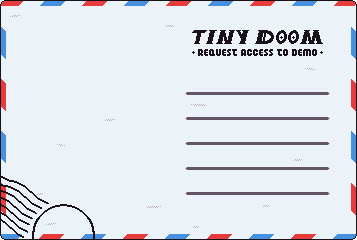
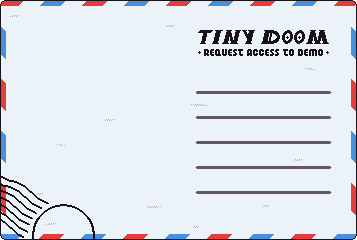
Update postcard layout and signup embed

diff --git a/src/lib/discord.ts b/src/lib/discord.ts
@@ -99,7 +99,7 @@ export async function postPlaytestSignupMessage(
 			body: JSON.stringify({
 				embeds: [
 					{
-						title: "💌 Hammerbound playtest signup",
+						title: "Hammerbound playtest signup",
 						color: 0xfb6b1d,
 						fields: [
 							{ name: "🙋 Name", value: signup.name, inline: true },

diff --git a/src/app/globals.css b/src/app/globals.css
@@ -105,7 +105,7 @@ body {
 
 .postcard-copy {
 	display: flex;
-	width: 46%;
+	width: 52%;
 	height: 100%;
 	flex-direction: column;
 	gap: clamp(0.25rem, 1.2vh, 0.75rem);
